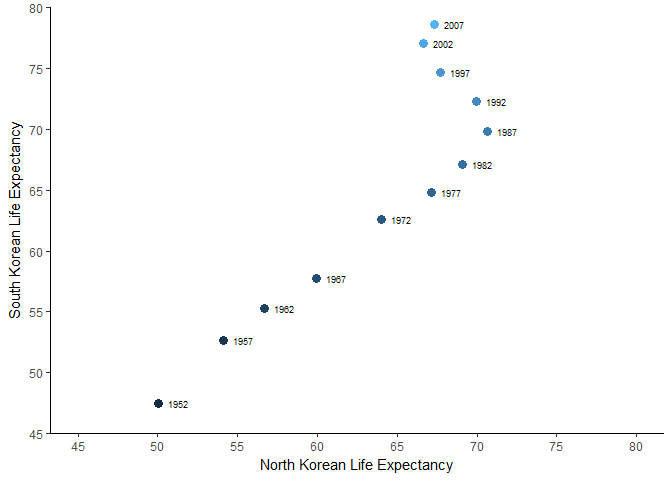
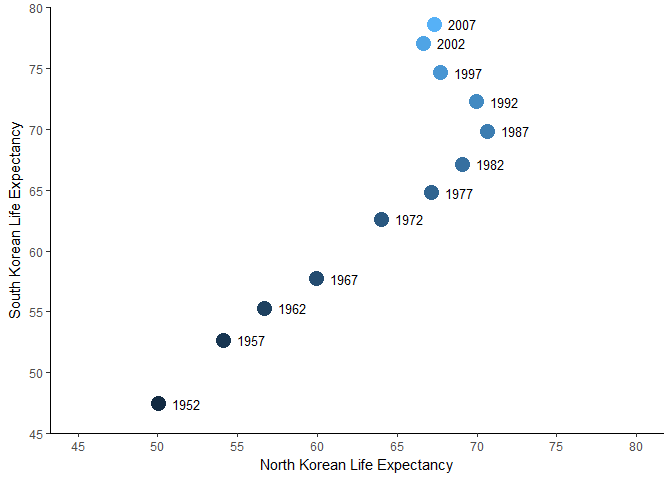
R Studio

diff --git a/hw04/hw4.md b/hw04/hw4.md
@@ -169,8 +169,8 @@ a_theme = theme(panel.grid.major = element_blank(),
 #Data plotting  
 N.S.Korea %>%
 ggplot(aes(x = N.lifeExp, y = S.lifeExp))+
-geom_point(aes(color = Year), size = 3) +
-geom_text(aes(label = Year), color = "black", size = 2.5, hjust = -.5)+ #move around text with hjust
+geom_point(aes(color = Year), size = 5) +
+geom_text(aes(label = Year), color = "black", size = 3.5, hjust = -.5)+ #move around text with hjust
 scale_y_continuous(expand= c(0,0), breaks=seq(45,80,5), lim = c(45,80)) + #Set Y axis increments and range
 scale_x_continuous(breaks=seq(45,80,5), lim = c(45,80)) + #Set X axis increments and range
 xlab("North Korean Life Expectancy") + #Title X axis
